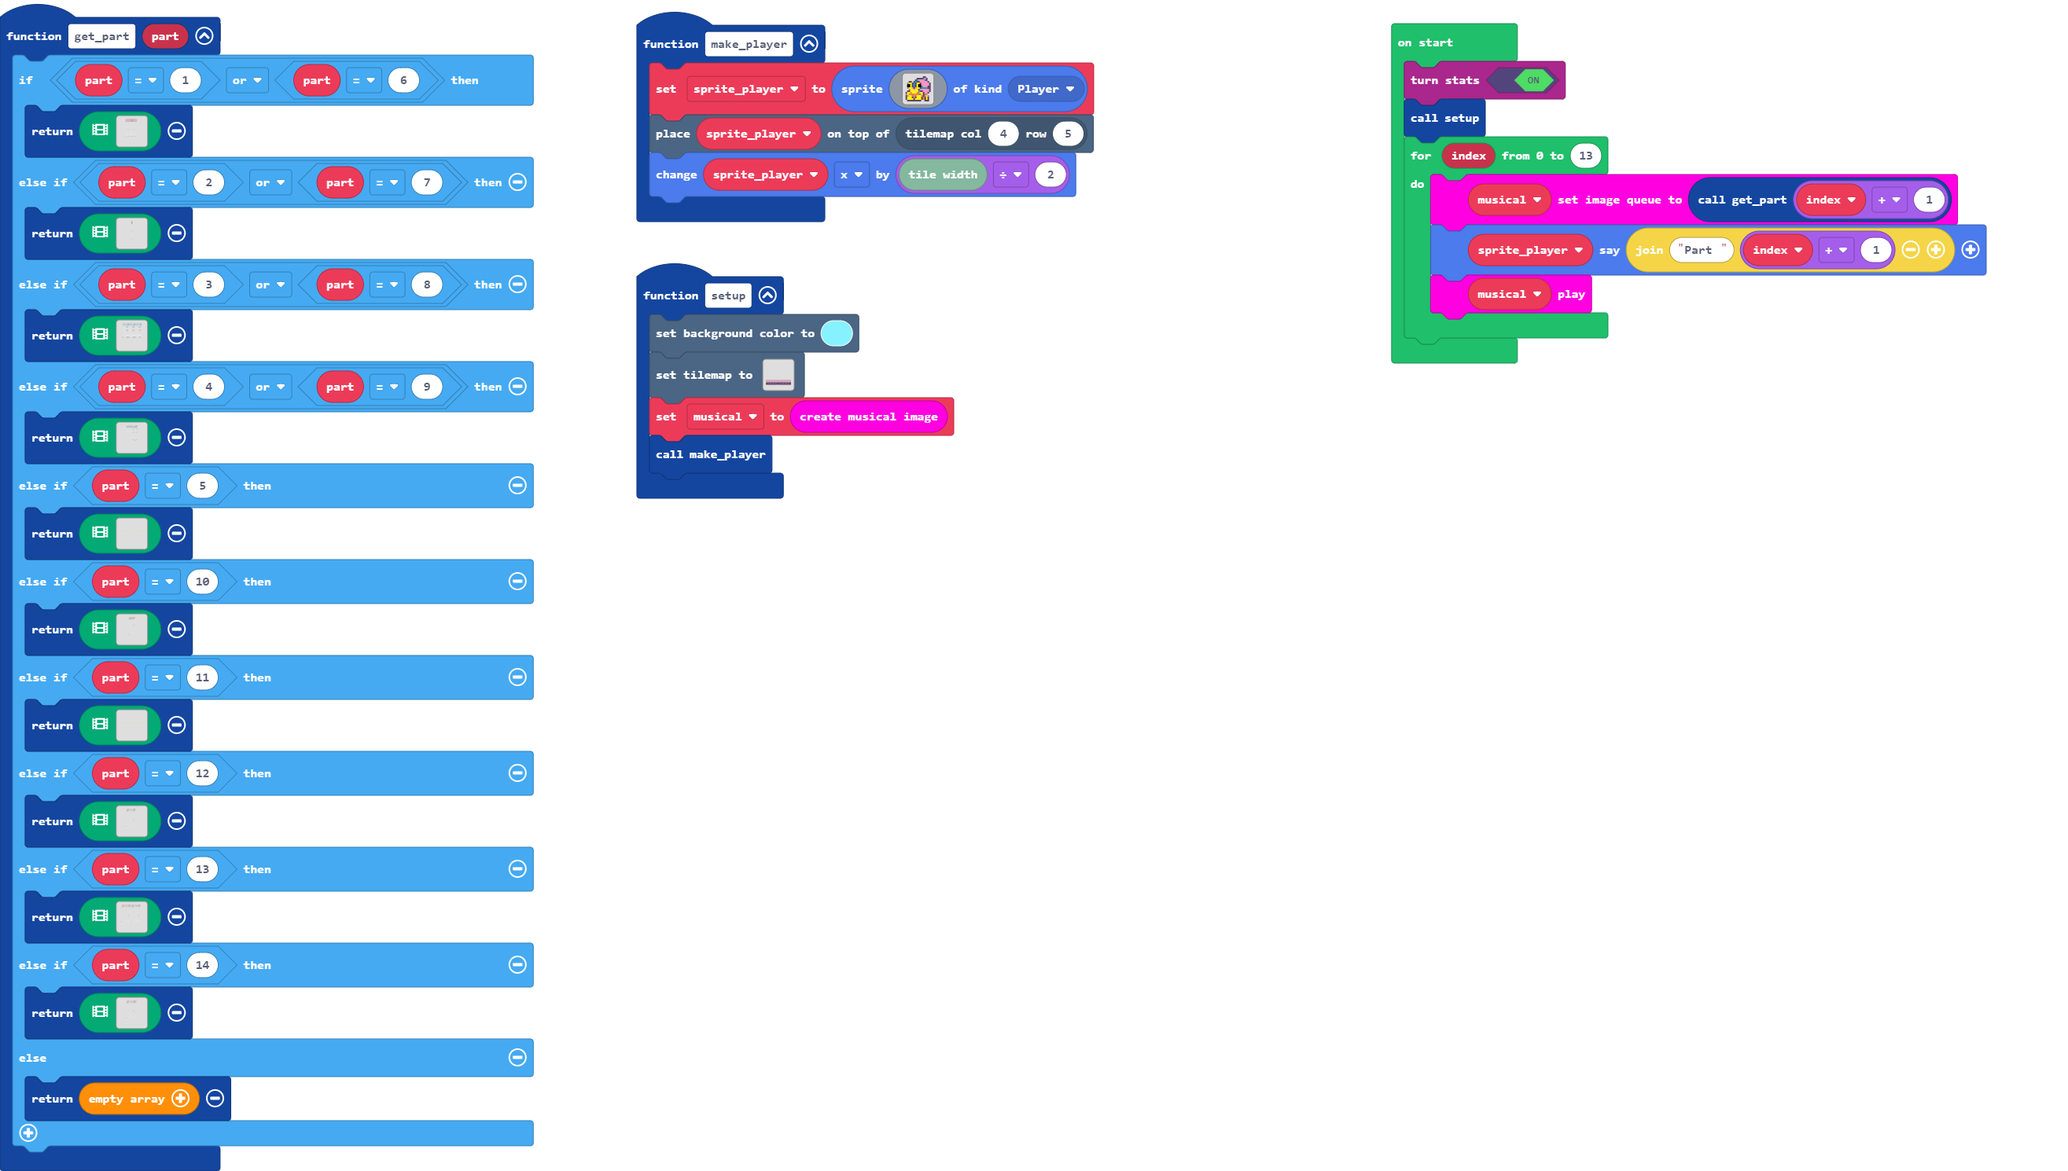
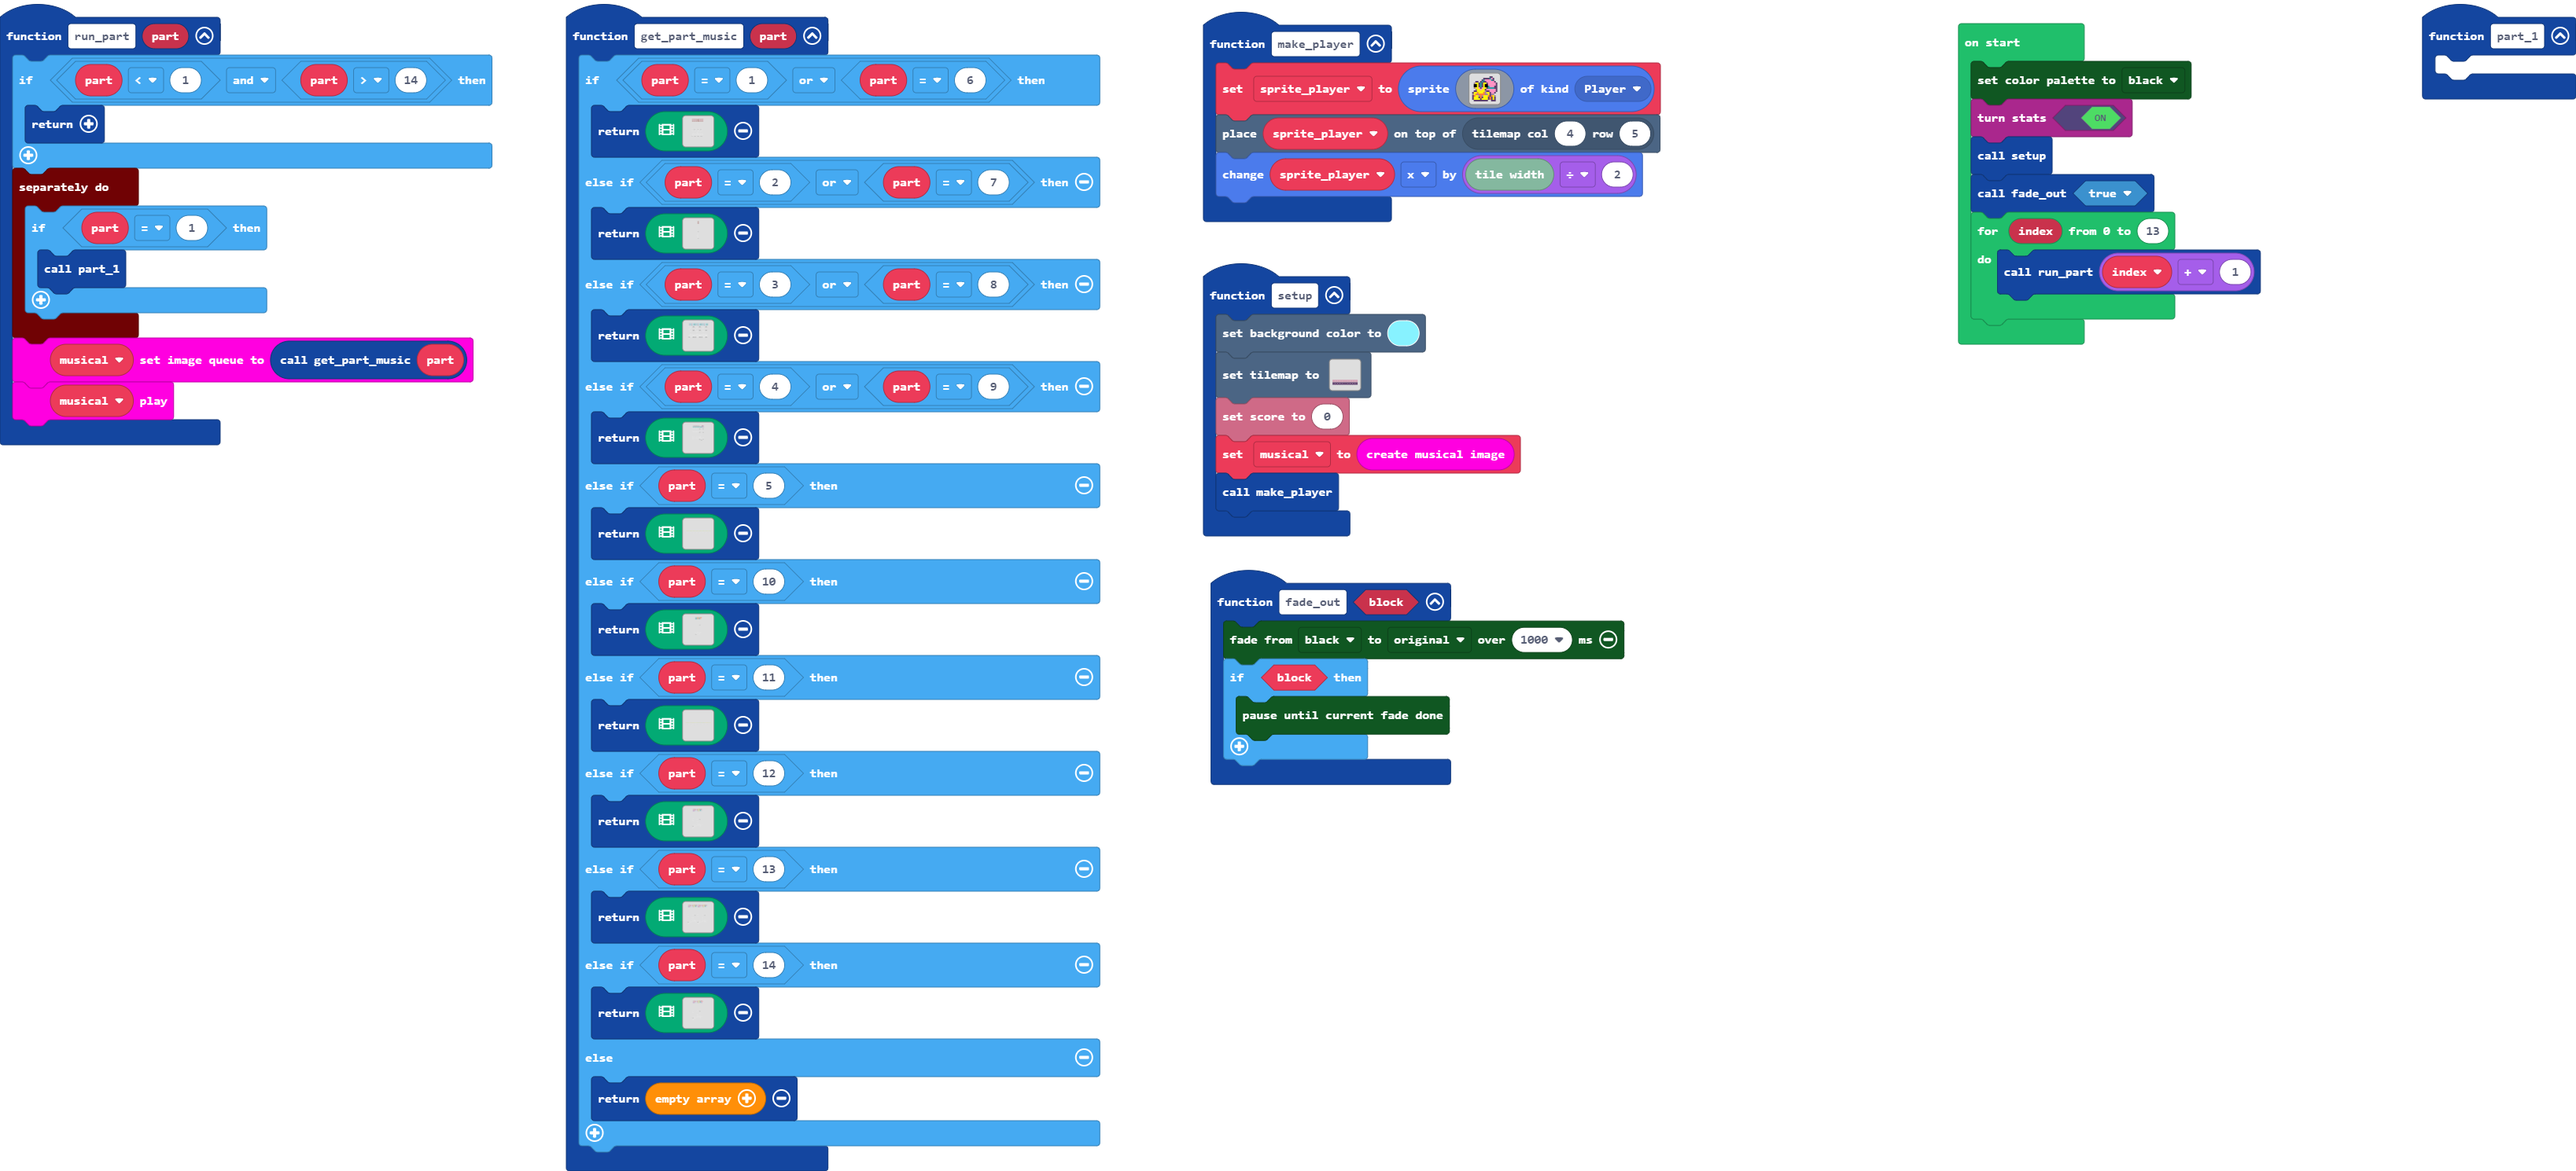
Start making part 1 (by start I mean make the function for it)

diff --git a/main.ts b/main.ts
@@ -1,4 +1,13 @@
-function get_part (part: number) {
+function part_1 () {
+	
+}
+function fade_out (block: boolean) {
+    color.startFade(color.Black, color.originalPalette, 1000)
+    if (block) {
+        color.pauseUntilFadeDone()
+    }
+}
+function get_part_music (part: number) {
     if (part == 1 || part == 6) {
         return assets.animation`beginning`
     } else if (part == 2 || part == 7) {
@@ -31,15 +40,30 @@ function make_player () {
 function setup () {
     scene.setBackgroundColor(9)
     tiles.setTilemap(tilemap`map`)
+    info.setScore(0)
     musical = MusicalImages.create_musical_image()
     make_player()
 }
-let sprite_player: Sprite = null
+function run_part (part: number) {
+    if (part < 1 && part > 14) {
+        return
+    }
+    timer.background(function () {
+        if (part == 1) {
+            part_1()
+        }
+    })
+    MusicalImages.set_queue(musical, get_part_music(part))
+    MusicalImages.play(musical)
+}
 let musical: MusicalImages.MusicalImage = null
+let sprite_player: Sprite = null
+color.setPalette(
+color.Black
+)
 stats.turnStats(true)
 setup()
+fade_out(true)
 for (let index = 0; index <= 13; index++) {
-    MusicalImages.set_queue(musical, get_part(index + 1))
-    sprite_player.sayText("Part " + (index + 1))
-    MusicalImages.play(musical)
+    run_part(index + 1)
 }
